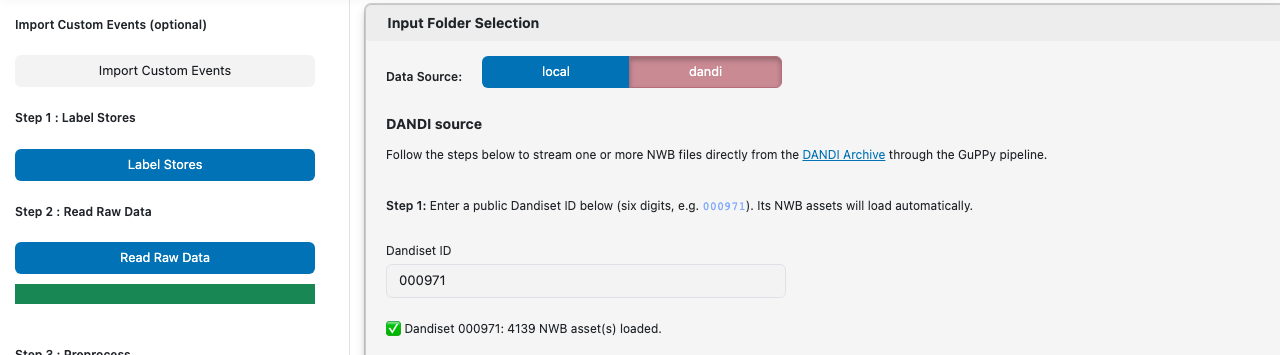
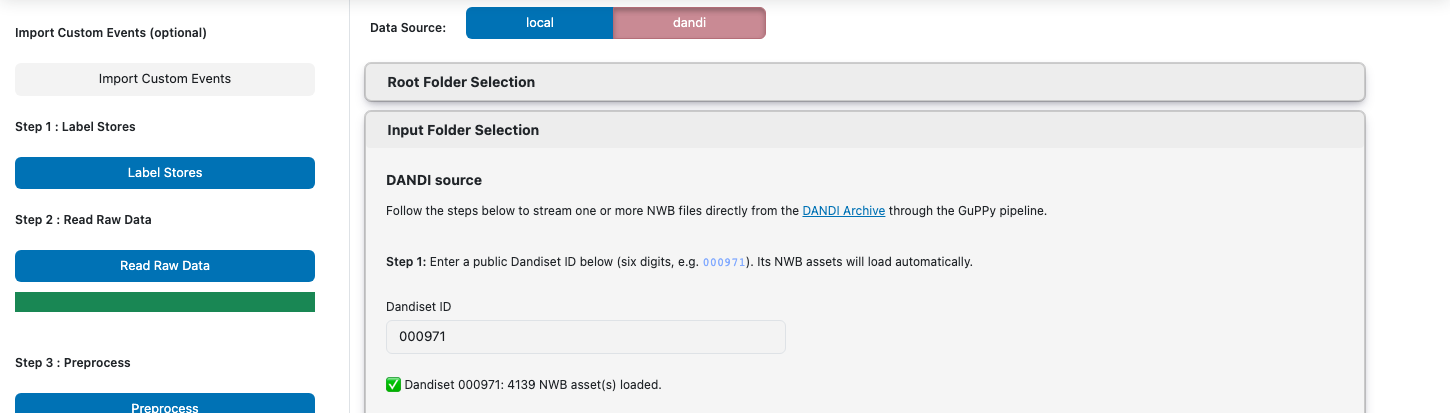
Reshoot the homepage screenshots for the new card layout
The landing-page and data-selection shots were old enough to show cards named
Individual Analysis and Visualization Parameters, and the DANDI shot had the
Data Source toggle inside the Input Folder Selection card, where it no longer
is. Reshoot the three homepage shots and the DANDI one, and bring the tutorial
and the DANDI guide's prose with them: the card list a reader is told to use,
the toggle's position, and Step 1's claim that the run folder is created next to
the session.

Two changes to how they are taken. The script points GUPPY_SETTINGS_PATH at its
temp directory, so the Root Folder Selection card opens as it does on a first
launch rather than folding away because whoever ran the script last had roots
remembered. And the shots that have to show a whole card render at 1450px, since
a 1000px card beside the sidebar no longer fits the default viewport once the
card carries prose.

The data-selection and DANDI shots pre-select the roots, which is where their
readers are by that point: Root Folder Selection folded away, and the card the
shot is about directly beneath it.

diff --git a/docs/take_screenshots.py b/docs/take_screenshots.py
@@ -17,6 +17,7 @@ public dandiset is unauthenticated (only streaming an asset's data authenticates
 from __future__ import annotations
 
 import math
+import os
 import socket
 import time
 from pathlib import Path
@@ -42,6 +43,7 @@ from guppy.frontend.visualization_dashboard import VisualizationDashboard
 from guppy.orchestration.home import build_homepage
 from guppy.orchestration.metadata import build_metadata_template
 from guppy.orchestration.store_labeling import build_store_labeling_template
+from guppy.settings import SETTINGS_PATH_VARIABLE
 from guppy.testing.covariate_session import SESSION_NAME as COVARIATE_SESSION_NAME
 from guppy.testing.covariate_session import run_covariate_session
 from guppy.utils._hdf5_io import write_hdf5
@@ -61,6 +63,9 @@ OUTPUT_DIR = Path(__file__).parent / "_static" / "images"
 OUTPUT_DIR.mkdir(parents=True, exist_ok=True)
 
 VIEWPORT = {"width": 1280, "height": 900}
+# The homepage's cards are 1000px wide and sit beside a ~350px sidebar, so the shots that
+# have to show a whole card render wider than the default viewport.
+WIDE_VIEWPORT = {"width": 1450, "height": 900}
 SAMPLE_DATA_DIR = REPO_ROOT / "stubbed_testing_data" / "csv" / "sample_data_csv_1"
 
 # Public dandiset used for the DANDI how-to screenshots. The asset is the same one
@@ -110,16 +115,22 @@ def _sidebar_clip(page: Page, from_step: str | None) -> dict[str, float]:
 
 
 def screenshot_homepage(page: Page) -> None:
-    """Screenshot 1: the Input Parameters GUI landing page."""
+    """Screenshot 1: the Input Parameters GUI landing page, as a first launch shows it.
+
+    Rendered wide enough that the 1000px cards clear the sidebar without being cut off,
+    which the default viewport is too narrow for once a card carries prose.
+    """
     template = build_homepage()
     url = _serve(template)
 
+    page.set_viewport_size(WIDE_VIEWPORT)
     page.goto(url)
     page.get_by_text("Parameter Selection").first.wait_for()
     page.wait_for_timeout(1000)
     page.screenshot(path=OUTPUT_DIR / "01_homepage.png", full_page=False)
     print("Saved 01_homepage.png")
 
+    page.set_viewport_size(VIEWPORT)
     pn.state.kill_all_servers()
 
 
@@ -454,35 +465,44 @@ def screenshot_label_stores(page: Page, tmp_path: Path) -> None:
     pn.state.kill_all_servers()
 
 
-def screenshot_data_selection(page: Page) -> None:
-    """Screenshot for Step 2 substep 1: the file-selector portion of the homepage.
+def screenshot_data_selection(page: Page, tmp_path: Path) -> None:
+    """Screenshot for Step 0: the session-folder browser in Input Folder Selection.
 
-    Captures the top of the Parameter Selection card so the reader can see the
-    file browser they are about to interact with.
+    The roots are pre-selected, which is where the tutorial's reader is by this point:
+    Root Folder Selection has folded itself away and the session browser underneath is
+    already listing the sample sessions.
     """
-    template = build_homepage()
+    template = build_homepage(
+        input_root_folder=str(SAMPLE_DATA_DIR.parent),
+        output_root_folder=str(tmp_path),
+    )
     url = _serve(template)
+    page.set_viewport_size(WIDE_VIEWPORT)
     page.goto(url)
-    page.get_by_text("Parameter Selection").first.wait_for()
+    page.get_by_text("Pick the sessions to analyze").first.wait_for()
     page.wait_for_timeout(1000)
     page.screenshot(
         path=OUTPUT_DIR / "02_data_selection.png",
-        clip={"x": 0, "y": 0, "width": 1280, "height": 480},
+        clip={"x": 0, "y": 0, "width": WIDE_VIEWPORT["width"], "height": 720},
     )
     print("Saved 02_data_selection.png")
+    page.set_viewport_size(VIEWPORT)
     pn.state.kill_all_servers()
 
 
-def screenshot_parameters(page: Page) -> None:
-    """Screenshot for Step 2 substep 2: the parameter widgets in the Individual
-    Analysis card.
+def screenshot_parameters(page: Page, tmp_path: Path) -> None:
+    """Screenshot for Step 0: the first sections of the Parameter Selection card.
 
     The homepage uses a sticky header and sticky sidebar, so window-level
     scrolling does not move the parameters into view. Instead we render with a
     tall viewport so the whole Parameter Selection card lays out without
-    scrolling, then clip to the parameter region in absolute page coordinates.
+    scrolling, then clip to the top of the card. The clip is measured off the
+    rendered card, since where it lands depends on how much of the page is above it.
     """
-    template = build_homepage()
+    template = build_homepage(
+        input_root_folder=str(SAMPLE_DATA_DIR.parent),
+        output_root_folder=str(tmp_path),
+    )
     # The Parameter Selection card is collapsed by default; expand it so the
     # parameter widgets render and fall inside the clip region below.
     for card in template.main:
@@ -491,13 +511,14 @@ def screenshot_parameters(page: Page) -> None:
     url = _serve(template)
     # Wide enough that the 1000px card clears the sidebar without being cut off on the
     # right, tall enough that the card lays out without scrolling.
-    page.set_viewport_size({"width": 1450, "height": 1800})
+    page.set_viewport_size({"width": WIDE_VIEWPORT["width"], "height": 2000})
     page.goto(url)
-    page.get_by_text("Parameter Selection").first.wait_for()
+    page.get_by_text("Parallel Execution").first.wait_for()
     page.wait_for_timeout(1500)
+    card_top = page.get_by_text("Parameter Selection").first.bounding_box()
     page.screenshot(
         path=OUTPUT_DIR / "02_parameters.png",
-        clip={"x": 355, "y": 665, "width": 1030, "height": 900},
+        clip={"x": card_top["x"] - 32, "y": card_top["y"] + 45, "width": 1030, "height": 900},
     )
     print("Saved 02_parameters.png")
     page.set_viewport_size(VIEWPORT)
@@ -753,29 +774,47 @@ def screenshot_run_name_section(page: Page, *, run_name: str, filename: str) -> 
     print(f"Saved {filename}")
 
 
-def screenshot_dandi_source_selection(page: Page) -> None:
-    """How-to: the DANDI panel, reached with the Data Source toggle set to ``dandi``.
+def screenshot_dandi_source_selection(page: Page, tmp_path: Path) -> None:
+    """How-to: the Data Source toggle set to ``dandi``, and the DANDI panel it reveals.
 
     Assigning ``source_mode`` and ``dandiset_input`` fires their param watchers
     synchronously, so the DANDI panel is swapped in and the dandiset's assets are
     fetched before the template is served (mirroring screenshot_label_stores_configured).
     Fetching the asset list touches one zero-byte placeholder per NWB asset under the
     system temp dir; the tree is reused on subsequent runs.
+
+    The roots are pre-selected so Root Folder Selection folds away, which keeps the
+    toggle and the panel it drives in one shot rather than a card's height apart.
     """
-    template = build_homepage()
+    template = build_homepage(
+        input_root_folder=str(SAMPLE_DATA_DIR.parent),
+        output_root_folder=str(tmp_path),
+    )
     template._widgets["source_mode"].value = "dandi"
     template._widgets["dandi_selector"].dandiset_input.value = DANDI_DEMO_DANDISET_ID
     url = _serve(template)
 
+    page.set_viewport_size(WIDE_VIEWPORT)
     page.goto(url)
     page.get_by_text("DANDI source").first.wait_for()
-    page.wait_for_timeout(1500)
+    # The status line is the bottom of the crop, so wait for the asset count rather than
+    # for a fixed interval that a slow archive response would outlast.
+    page.get_by_text("NWB asset(s) loaded").first.wait_for(timeout=60000)
+    page.wait_for_timeout(1000)
+    status_line = page.get_by_text("NWB asset(s) loaded").first.bounding_box()
+    top = page.get_by_text("Data Source:").first.bounding_box()["y"] - 20
     page.screenshot(
         path=OUTPUT_DIR / "dandi_source_selection.png",
-        clip={"x": 0, "y": 80, "width": 1280, "height": 355},
+        clip={
+            "x": 0,
+            "y": top,
+            "width": WIDE_VIEWPORT["width"],
+            "height": status_line["y"] + status_line["height"] + 20 - top,
+        },
     )
     print("Saved dandi_source_selection.png")
 
+    page.set_viewport_size(VIEWPORT)
     pn.state.kill_all_servers()
 
 
@@ -859,6 +898,7 @@ def screenshot_dandi_asset_browser(page: Page) -> None:
     url = _serve(template)
 
     page.set_viewport_size({"width": 1280, "height": 1700})
+    page.set_viewport_size(WIDE_VIEWPORT)
     page.goto(url)
     page.get_by_text("DANDI source").first.wait_for()
     page.wait_for_timeout(1500)
@@ -998,12 +1038,16 @@ def main() -> None:
 
         with tempfile.TemporaryDirectory() as tmp:
             tmp_path = Path(tmp)
+            # The root folders GuPPy remembers decide whether the Root Folder Selection
+            # card opens itself, so point the settings at the temp dir: every shot is then
+            # of a first-time page rather than of whoever ran the script last.
+            os.environ[SETTINGS_PATH_VARIABLE] = str(tmp_path / "settings.json")
             screenshot_homepage(page)
             screenshot_import_custom_events_button(page)
             screenshot_import_custom_events(page)
-            screenshot_data_selection(page)
-            screenshot_parameters(page)
-            screenshot_dandi_source_selection(page)
+            screenshot_data_selection(page, tmp_path)
+            screenshot_parameters(page, tmp_path)
+            screenshot_dandi_source_selection(page, tmp_path)
             screenshot_dandi_asset_browser(page)
             screenshot_label_stores(page, tmp_path)
             screenshot_label_stores_configured(page, tmp_path)

diff --git a/docs/tutorials/first_analysis.md b/docs/tutorials/first_analysis.md
@@ -47,11 +47,11 @@ guppy
 A browser tab opens showing the GuPPy dashboard.
 
 ```{image} ../_static/images/01_homepage.png
-:alt: GuPPy Input Parameters GUI homepage
+:alt: The GuPPy homepage on first launch: the sidebar of pipeline steps on the left, and on the right the Data Source toggle above an open Root Folder Selection card asking for the input and output root folders
 :align: center
 ```
 
-The page is split into a **sidebar on the left** and a **main area on the right**. The sidebar lists the pipeline buttons in run order, from *Label Stores* at the top through *Visualization* at the bottom, with a progress bar directly under each step that performs background work. The main area is where you select your data folder and configure parameters; settings are grouped into collapsible cards, of which this tutorial uses *Input Folder Selection* and *Parameter Selection*. The **Step N** labels in the sidebar (Label Stores through Export to NWB) match the numbered pipeline steps below, and the unnumbered buttons between them are optional steps this tutorial does not use; choosing your data and setting parameters in the main area, covered here in Step 0, is the setup that precedes them.
+The page is split into a **sidebar on the left** and a **main area on the right**. The sidebar lists the pipeline buttons in run order, from *Label Stores* at the top through *Visualization* at the bottom, with a progress bar directly under each step that performs background work. The main area is where you select your data folder and configure parameters; settings are grouped into collapsible cards, of which this tutorial uses *Root Folder Selection*, *Input Folder Selection*, *Output Folder Selection* and *Parameter Selection*. The **Step N** labels in the sidebar (Label Stores through Export to NWB) match the numbered pipeline steps below, and the unnumbered buttons between them are optional steps this tutorial does not use; choosing your data and setting parameters in the main area, covered here in Step 0, is the setup that precedes them.
 
 Before running the pipeline you pick the session folder you want to analyze, then look over (but not change) the analysis parameters that the rest of the pipeline will use.
 
@@ -62,11 +62,11 @@ Open the **Root Folder Selection** card at the top of the page. It holds the two
 In the **Input Folder Selection** card's **Session folders** browser, navigate to `stubbed_testing_data/csv/sample_data_csv_1/` and click **`>>`** to move that folder into the **Selected files** pane on the right. The browser supports selecting multiple session folders at once for batch analysis; for this tutorial we are running a single session. Every session you select has to sit under the input root folder.
 
 ```{image} ../_static/images/02_data_selection.png
-:alt: GuPPy homepage Input Folder Selection card showing the file browser with the sample_data_csv_1 folder available for selection
+:alt: The GuPPy homepage with Root Folder Selection folded away and the Input Folder Selection card open below it, its Session folders browser listing sample_data_csv_1 among the sample sessions
 :align: center
 ```
 
-The **Data Source** toggle at the top lets you switch between `local` (the default, file-system browsing) and `dandi` (streaming NWB sessions directly from DANDI). We are using local files here; see [Analyze data streamed from the DANDI Archive](../how-to/analyze-dandi-data.md) for the DANDI workflow.
+The **Data Source** toggle above the cards lets you switch between `local` (the default, file-system browsing) and `dandi` (streaming NWB sessions directly from DANDI). We are using local files here; see [Analyze data streamed from the DANDI Archive](../how-to/analyze-dandi-data.md) for the DANDI workflow.
 
 ### Set parameters
 
@@ -88,7 +88,7 @@ There is no separate "save parameters" action. Each pipeline step records the pa
 
 ## Step 1: Label your channels
 
-A **store** is the human-readable label GuPPy uses for one of your data channels. Raw acquisition files come with cryptic, format-specific names (here, the CSV filenames `Sample_Control_Channel`, `Sample_Signal_Channel`, `Sample_TTL`); GuPPy needs you to map each one to a meaningful name like `control_A`, `signal_A`, or `RewardPort`. Those mapped names are what every downstream step (preprocessing, PSTH, plots, group analysis) refers to. The mapping is saved as `storesList.csv` inside an output folder created next to the session.
+A **store** is the human-readable label GuPPy uses for one of your data channels. Raw acquisition files come with cryptic, format-specific names (here, the CSV filenames `Sample_Control_Channel`, `Sample_Signal_Channel`, `Sample_TTL`); GuPPy needs you to map each one to a meaningful name like `control_A`, `signal_A`, or `RewardPort`. Those mapped names are what every downstream step (preprocessing, PSTH, plots, group analysis) refers to. The mapping is saved as `storesList.csv` inside a run folder created in the output root folder.
 
 Click **Label Stores** in the sidebar. A new browser tab opens with the Label Stores panel for the selected folder.
 
@@ -131,7 +131,7 @@ The three CSV filenames appear in the left list (**Filter available options**) o
    }
    ```
 
-5. **Choose the output root folder.** Leave **Create new run** selected, and leave the **Run name** GuPPy fills in, `1`.
+5. **Choose where to save the store labels.** Leave **Create new run** selected, and leave the **Run name** GuPPy fills in, `1`.
 
    This choice picks the **run folder** for the entire analysis pipeline. From this point on, every downstream step (Read Raw Data, Preprocess, PSTH Computation, Visualization) writes its outputs (HDF5 files, PSTH results, plots) into that directory and reads `storesList.csv` from it to know which raw channel maps to which store. **Create new run** makes a fresh directory named `output_<run name>/` inside the session's mirror in the output root folder — for this tutorial, `<output root folder>/sample_data_csv_1/`. The run name GuPPy fills in is the next free integer, so the first run gets `output_1`, the second `output_2`, and so on. Your raw session folder is left exactly as it was.
 

diff --git a/docs/how-to/analyze-dandi-data.md b/docs/how-to/analyze-dandi-data.md
@@ -29,11 +29,12 @@ GuPPy reads the dandiset's `draft` version.
 
 ## Choosing a dandiset and assets
 
-1. In **Input Folder Selection**, set **Data Source** to `dandi`. The local file
-   browser is replaced by the DANDI browser.
+1. Set **Data Source**, above the cards at the top of the page, to `dandi`. In
+   **Input Folder Selection** the local file browser is replaced by the DANDI
+   browser.
 
    ```{image} ../_static/images/dandi_source_selection.png
-   :alt: The Input Folder Selection card with the Data Source toggle switched from local to dandi, showing the DANDI source panel, a Dandiset ID field containing 000971, and a status line reading "Dandiset 000971: 4139 NWB asset(s) loaded."
+   :alt: The Data Source toggle at the top of the page switched from local to dandi, with the Input Folder Selection card below it showing the DANDI source panel, a Dandiset ID field containing 000971, and a status line reading "Dandiset 000971: 4139 NWB asset(s) loaded."
    :width: 100%
    ```
 
